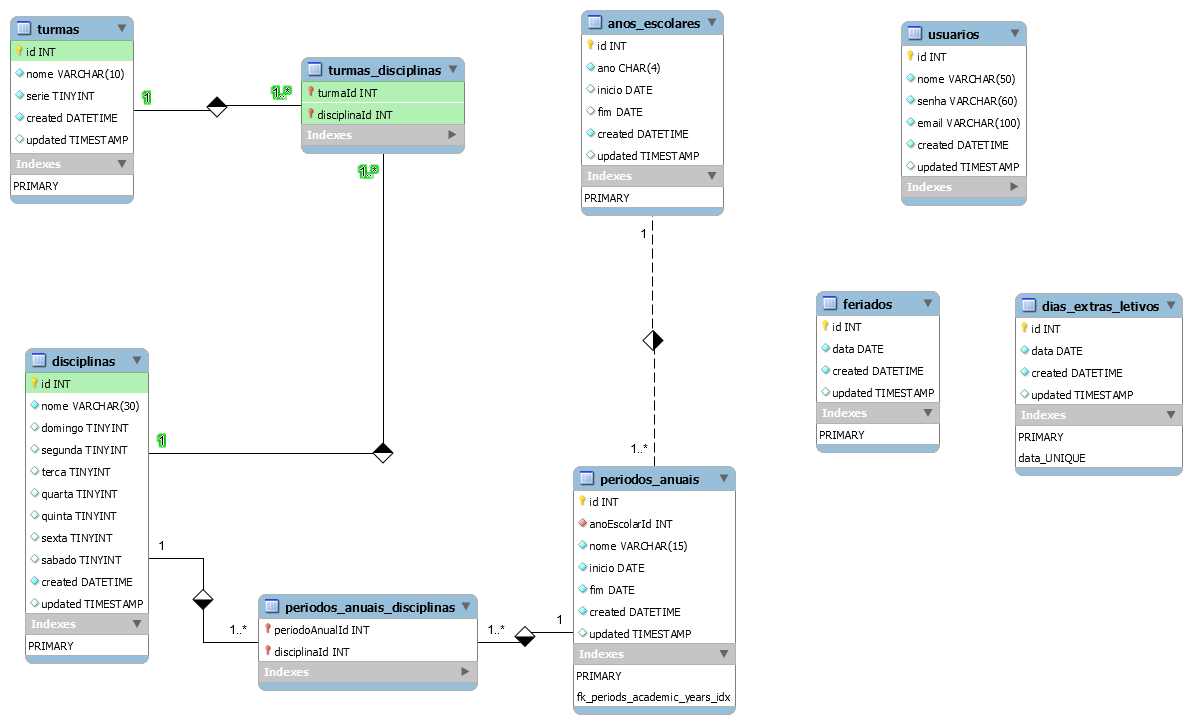
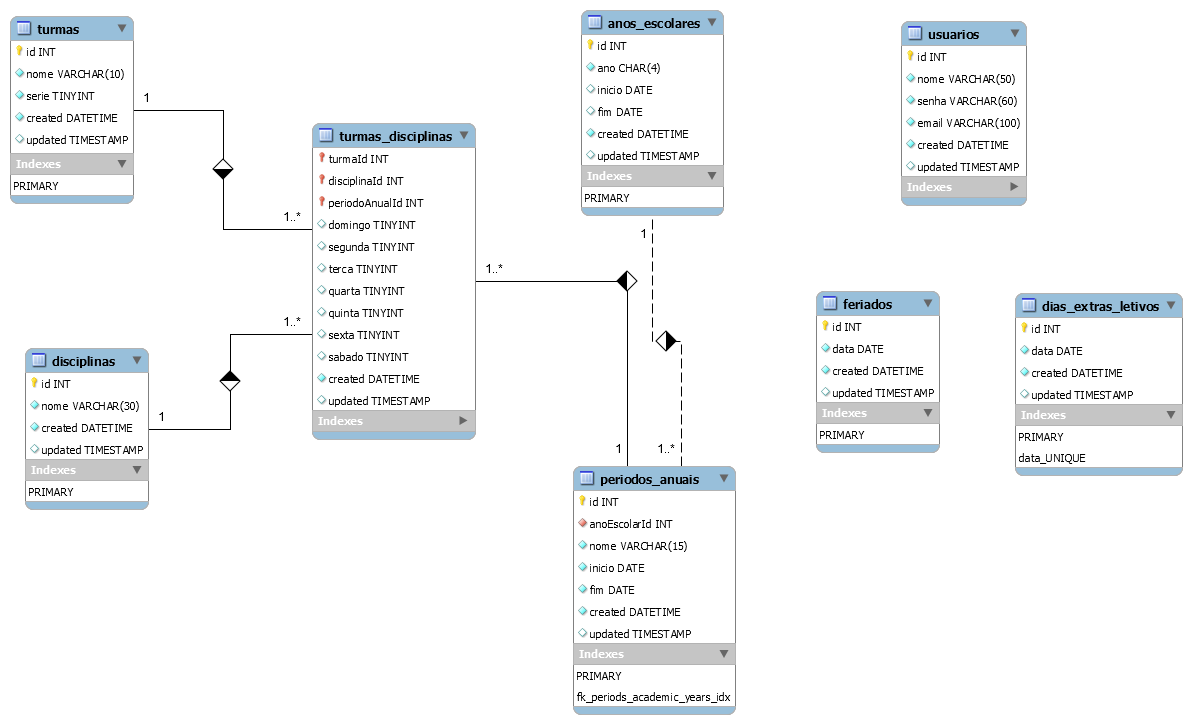
Ajuste para armazenamento de horários por disciplina, turma e período letivo

diff --git a/src/Controller/DisciplinasController.php b/src/Controller/DisciplinasController.php
@@ -22,11 +22,6 @@ class DisciplinasController extends \Phalcon\Mvc\Controller
 
                 $disciplina = (new \Application\Model\Disciplina())
                     ->setNome($dados['nome'])
-                    ->setSegunda($dados['segunda'])
-                    ->setTerca($dados['terca'])
-                    ->setQuarta($dados['quarta'])
-                    ->setQuinta($dados['quinta'])
-                    ->setSexta($dados['sexta'])
                     ->setCreated(date('Y-m-d H:i:s'));
 
                 if ($disciplina->create() == false) {
@@ -62,11 +57,6 @@ class DisciplinasController extends \Phalcon\Mvc\Controller
                 }
 
                 $disciplina->setNome($dados['nome'])
-                    ->setSegunda($dados['segunda'])
-                    ->setTerca($dados['terca'])
-                    ->setQuarta($dados['quarta'])
-                    ->setQuinta($dados['quinta'])
-                    ->setSexta($dados['sexta'])
                     ->setCreated(date('Y-m-d H:i:s'));
 
                 if ($disciplina->update() == false) {

diff --git a/src/Model/TurmaDisciplina.php b/src/Model/TurmaDisciplina.php
@@ -8,11 +8,32 @@ class TurmaDisciplina extends BaseModel
 
     protected $disciplinaId;
 
+    protected $periodoAnualId;
+
+    protected $domingo;
+
+    protected $segunda;
+
+    protected $terca;
+
+    protected $quarta;
+
+    protected $quinta;
+
+    protected $sexta;
+
+    protected $sabado;
+
+    protected $created;
+
+    protected $updated;
+
     public function initialize()
     {
         $this->setSource('turmas_disciplinas');
         $this->belongsTo('turmaId', __NAMESPACE__ . '\\Turma', 'id', array('alias' => 'turma'));
         $this->belongsTo('disciplinaId', __NAMESPACE__ . '\\Disciplina', 'id', array('alias' => 'disciplina'));
+        $this->belongsTo('periodoAnualId', __NAMESPACE__ . '\\PeriodoAnual', 'id', array('alias' => 'periodoAnual'));
     }
 
     public function validation()

diff --git a/src/Model/PeriodoAnual.php b/src/Model/PeriodoAnual.php
@@ -23,10 +23,16 @@ class PeriodoAnual extends BaseModel
         $this->setSource('periodos_anuais');
         $this->belongsTo('anoEscolarId', __NAMESPACE__ . '\\AnoEscolar', 'id', array('alias' => 'anoEscolar'));
         $this->hasManyToMany(
-            "id", __NAMESPACE__ . "\\PeriodoAnualDisciplina",
+            "id", __NAMESPACE__ . "\\TurmaDisciplina",
             "periodoAnualId", "disciplinaId",
             __NAMESPACE__ . "\\Disciplina", "id",
             array('alias' => 'disciplinas')
+        );
+        $this->hasManyToMany(
+            "id", __NAMESPACE__ . "\\TurmaDisciplina",
+            "periodoAnualId", "turmaId",
+            __NAMESPACE__ . "\\Turmas", "id",
+            array('alias' => 'turmas')
         );
     }
 

diff --git a/src/Model/Disciplina.php b/src/Model/Disciplina.php
@@ -33,10 +33,10 @@ class Disciplina extends BaseModel
             "id", __NAMESPACE__ . "\\TurmaDisciplina",
             "disciplinaId", "turmaId",
             __NAMESPACE__ . "\\Turmas", "id",
-            array('alias' => 'turmasDisciplinas')
+            array('alias' => 'turmas')
         );
         $this->hasManyToMany(
-            "id", __NAMESPACE__ . "\\PeriodoAnualDisciplina",
+            "id", __NAMESPACE__ . "\\TurmaDisciplina",
             "disciplinaId", "periodoAnualId",
             __NAMESPACE__ . "\\PeriodoAnual", "id",
             array('alias' => 'periodosAnuais')

diff --git a/src/Model/Turma.php b/src/Model/Turma.php
@@ -21,7 +21,13 @@ class Turma extends BaseModel
             "id", __NAMESPACE__ . "\\TurmaDisciplina",
             "turmaId", "disciplinaId",
             __NAMESPACE__ . "\\Disciplina", "id",
-            array('alias' => 'turmasDisciplinas')
+            array('alias' => 'disciplinas')
+        );
+        $this->hasManyToMany(
+            "id", __NAMESPACE__ . "\\TurmaDisciplina",
+            "turmaId", "periodoAnualId",
+            __NAMESPACE__ . "\\PeriodoAnual", "id",
+            array('alias' => 'periodosAnuais')
         );
     }
 

diff --git a/public/index.php b/public/index.php
@@ -91,6 +91,8 @@ $turmas->get('/adicionar', 'adicionar');
 $turmas->post('/adicionar', 'adicionar');
 $turmas->get('/{id}/editar', 'editar');
 $turmas->post('/{id}/editar', 'editar');
+$turmas->get('/{turma}/horarios/{trimestre}', 'configurarAulas');
+$turmas->post('/{turma}/horarios/{trimestre}', 'configurarAulas');
 $turmas->get('/{id}/excluir', 'excluir');
 
 /**
